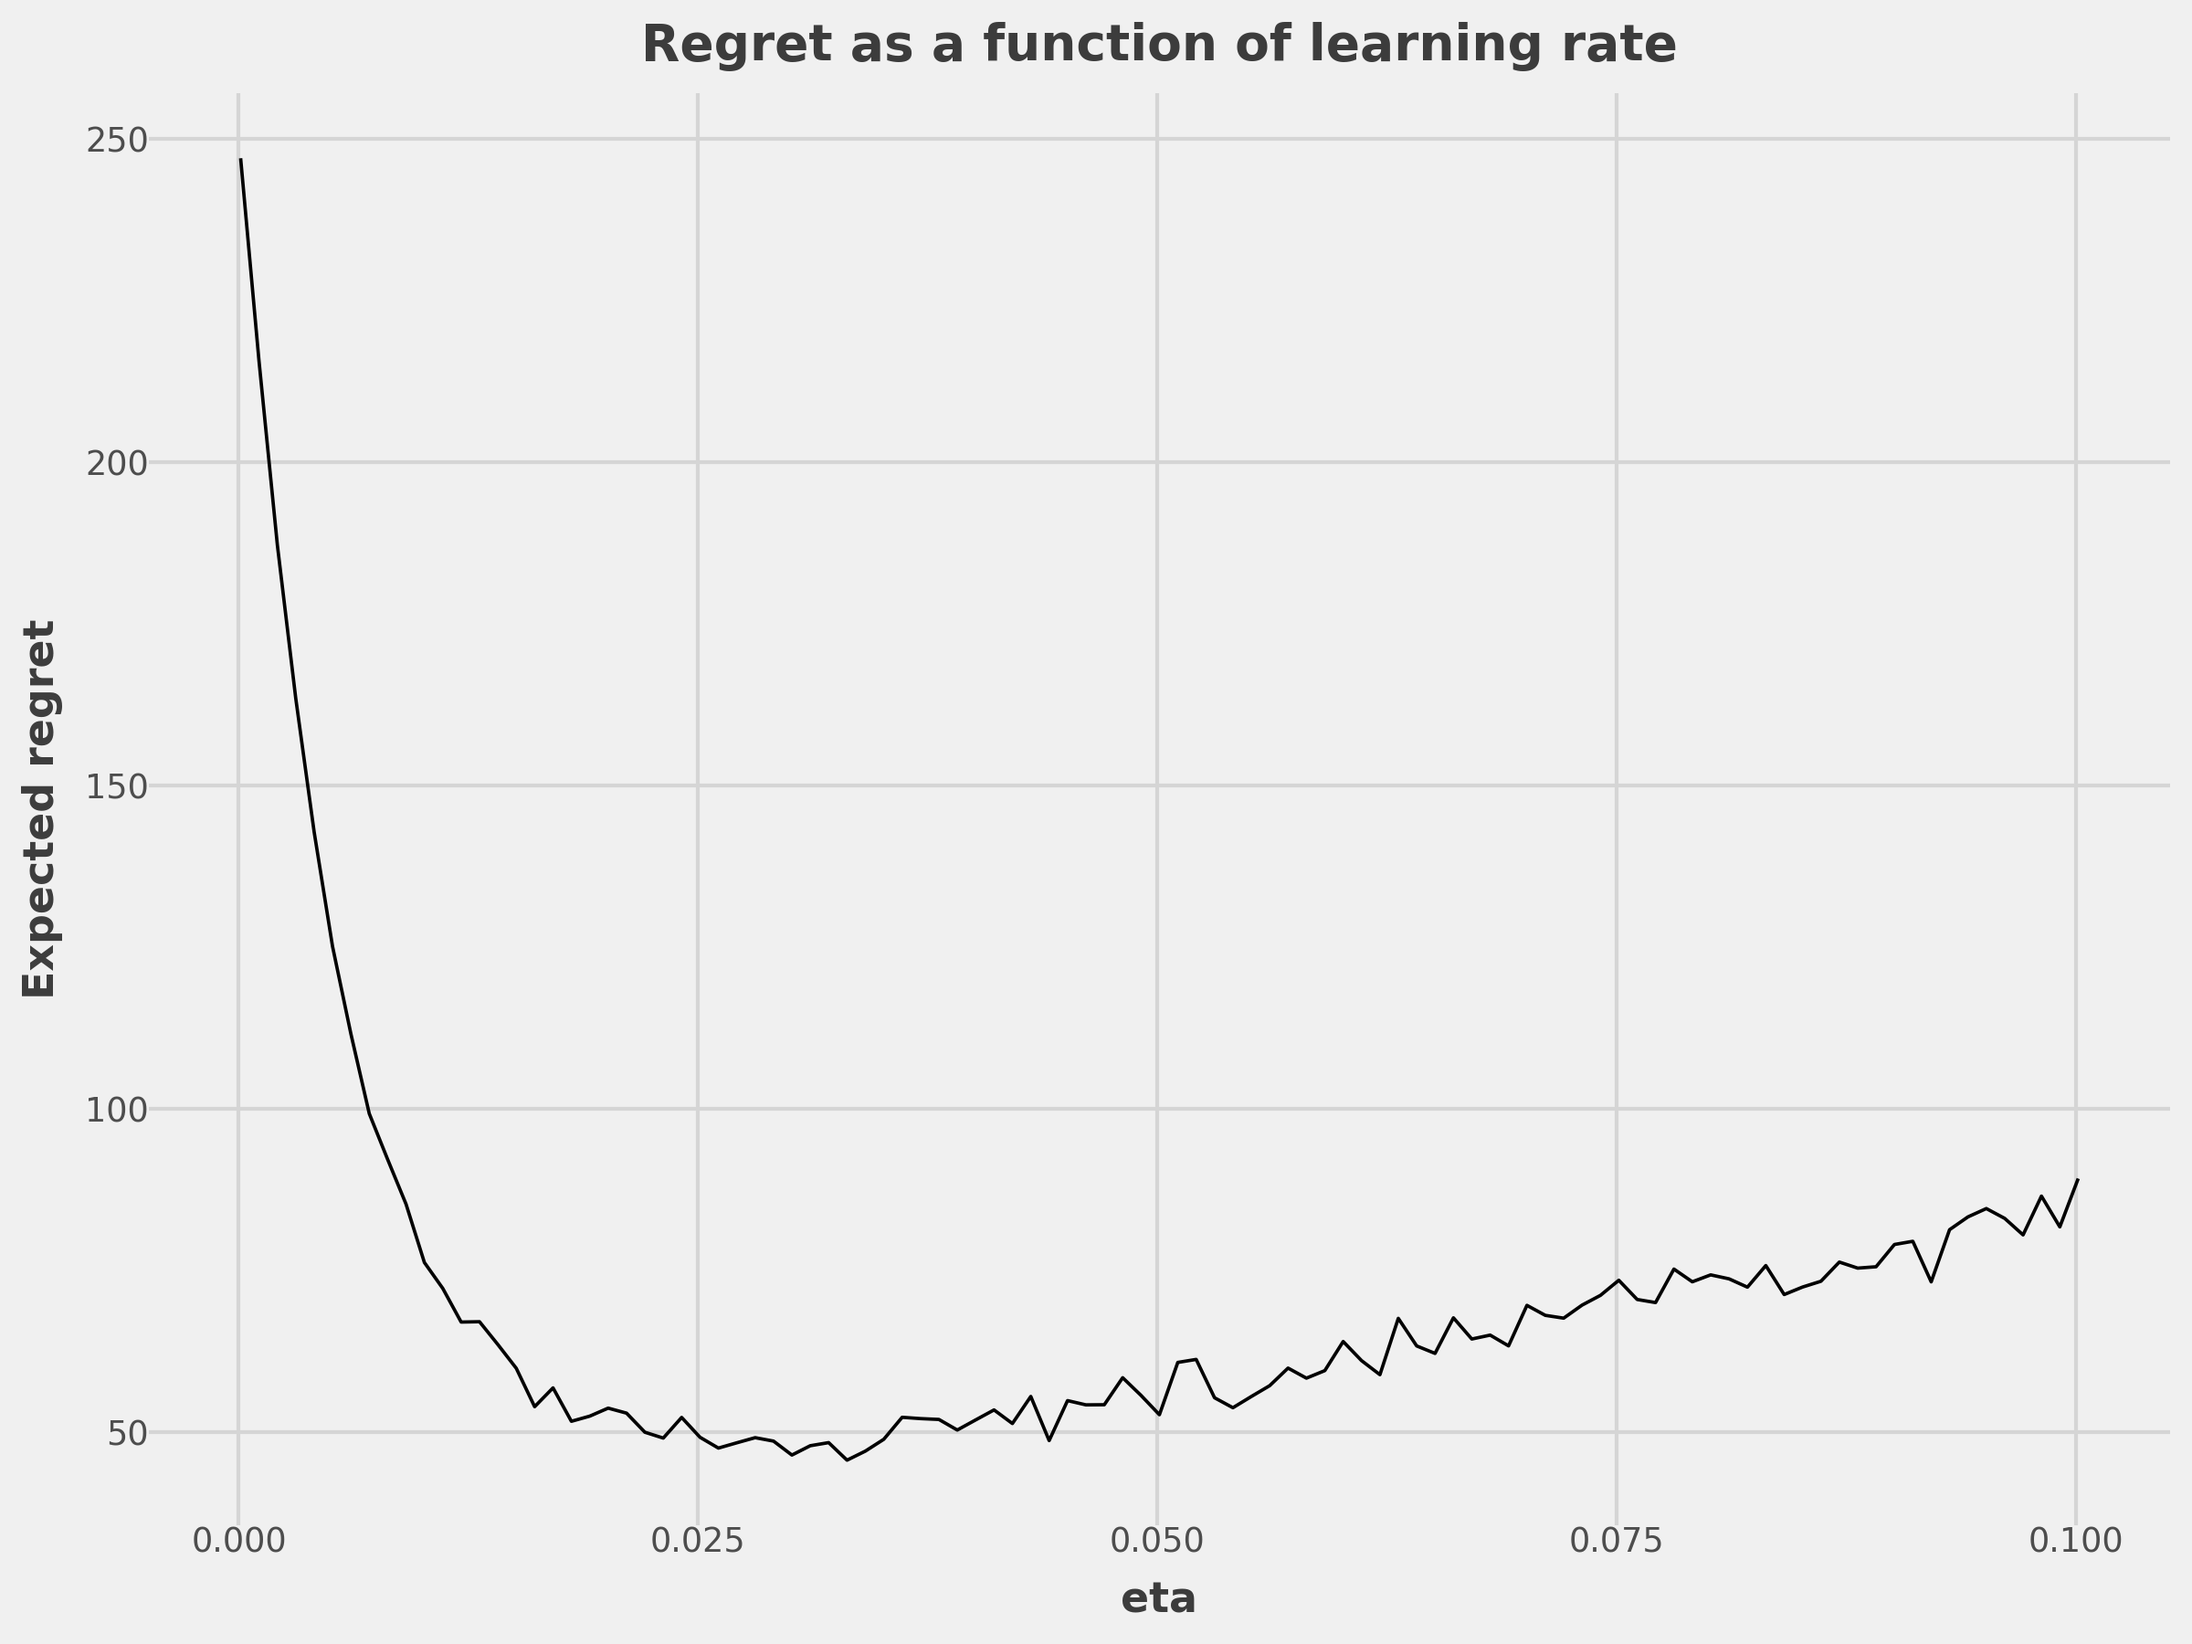
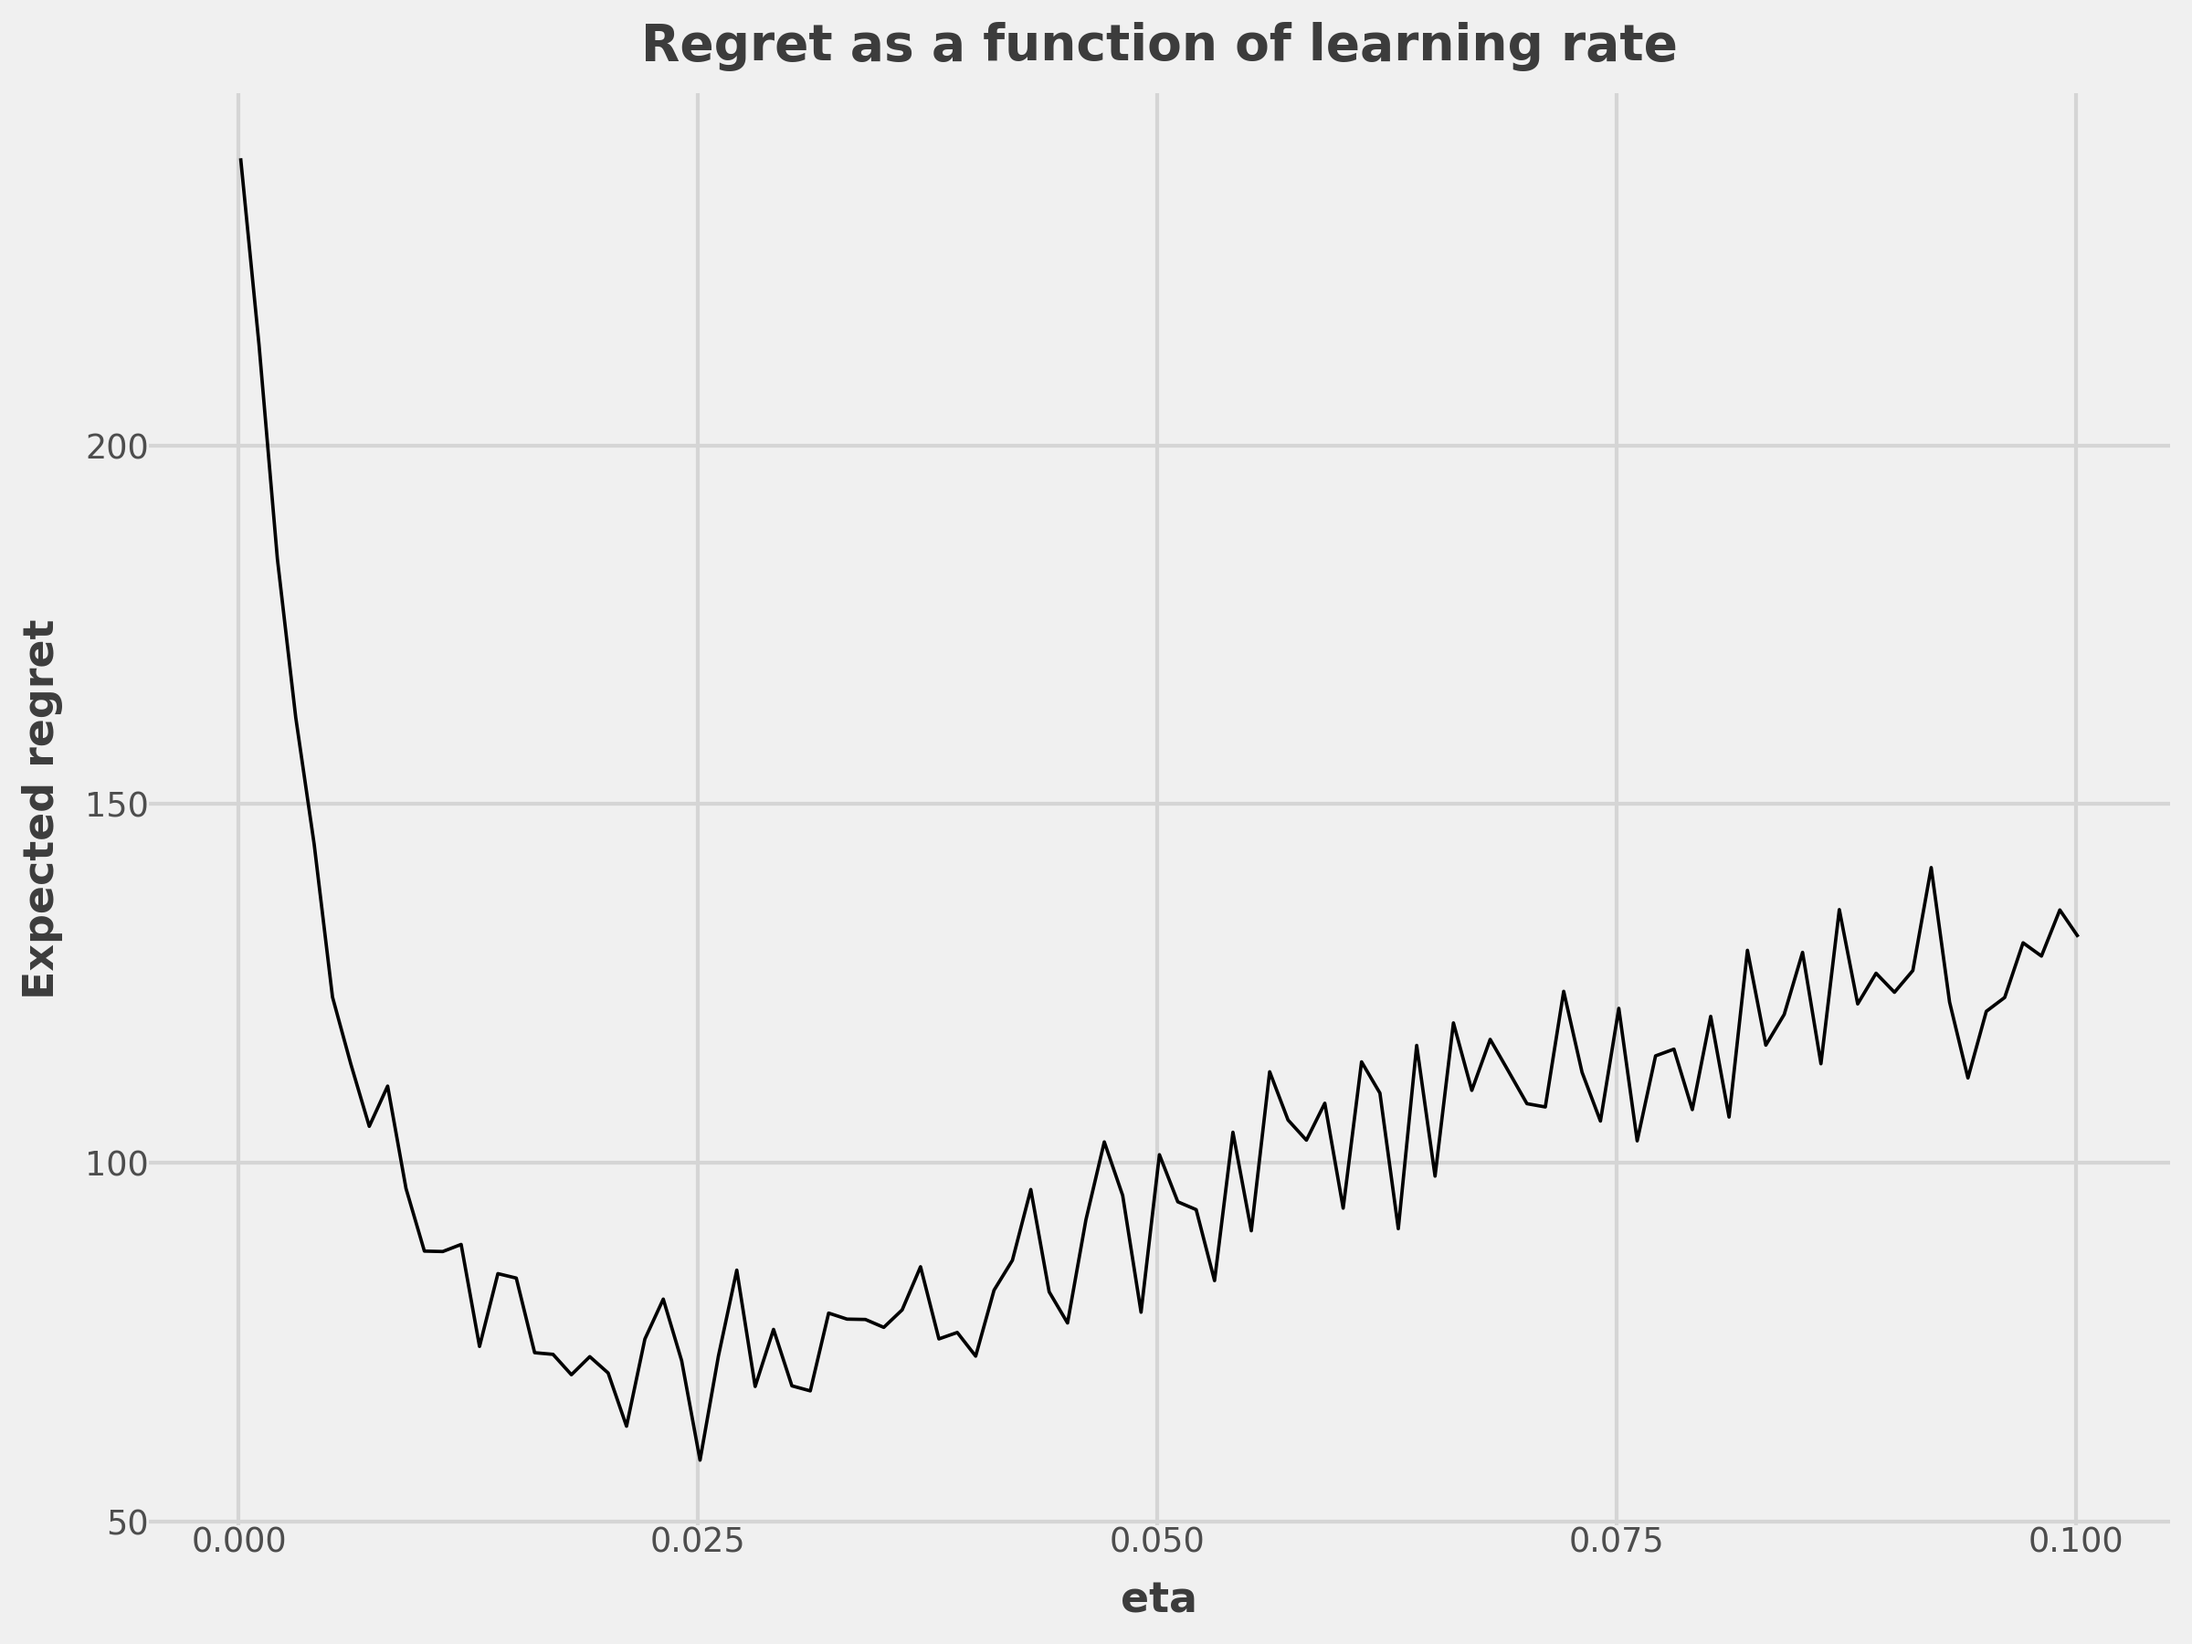
Exp3 algorithm :slot_machine:

diff --git a/src/exp3.py b/src/exp3.py
@@ -36,7 +36,7 @@ class AdversarialExp3:
                 for x in self.s_hat
             ]
             a_t = np.argmax(generator.multinomial(1, p_t))
-            reward = self.rewards[a_t]
+            reward = generator.binomial(1, self.rewards[a_t])
             self.realizations.append(reward)
             for idx in range(self.k):
                 self.probabilities[idx].append(p_t[idx])
@@ -53,7 +53,7 @@ class AdversarialExp3:
 # Exercises
 if __name__ == "__main__":
 
-    # 11.9
+    # 11.9 Stochastic Bernoulli Bandit with Exp3
     # Plot loose regret as a function of learning rate with fixed horizon T=1e4.
     # Average loose regret across 100 replications at each eta value.
     regret_dict = {"eta": [], "regret": []}
